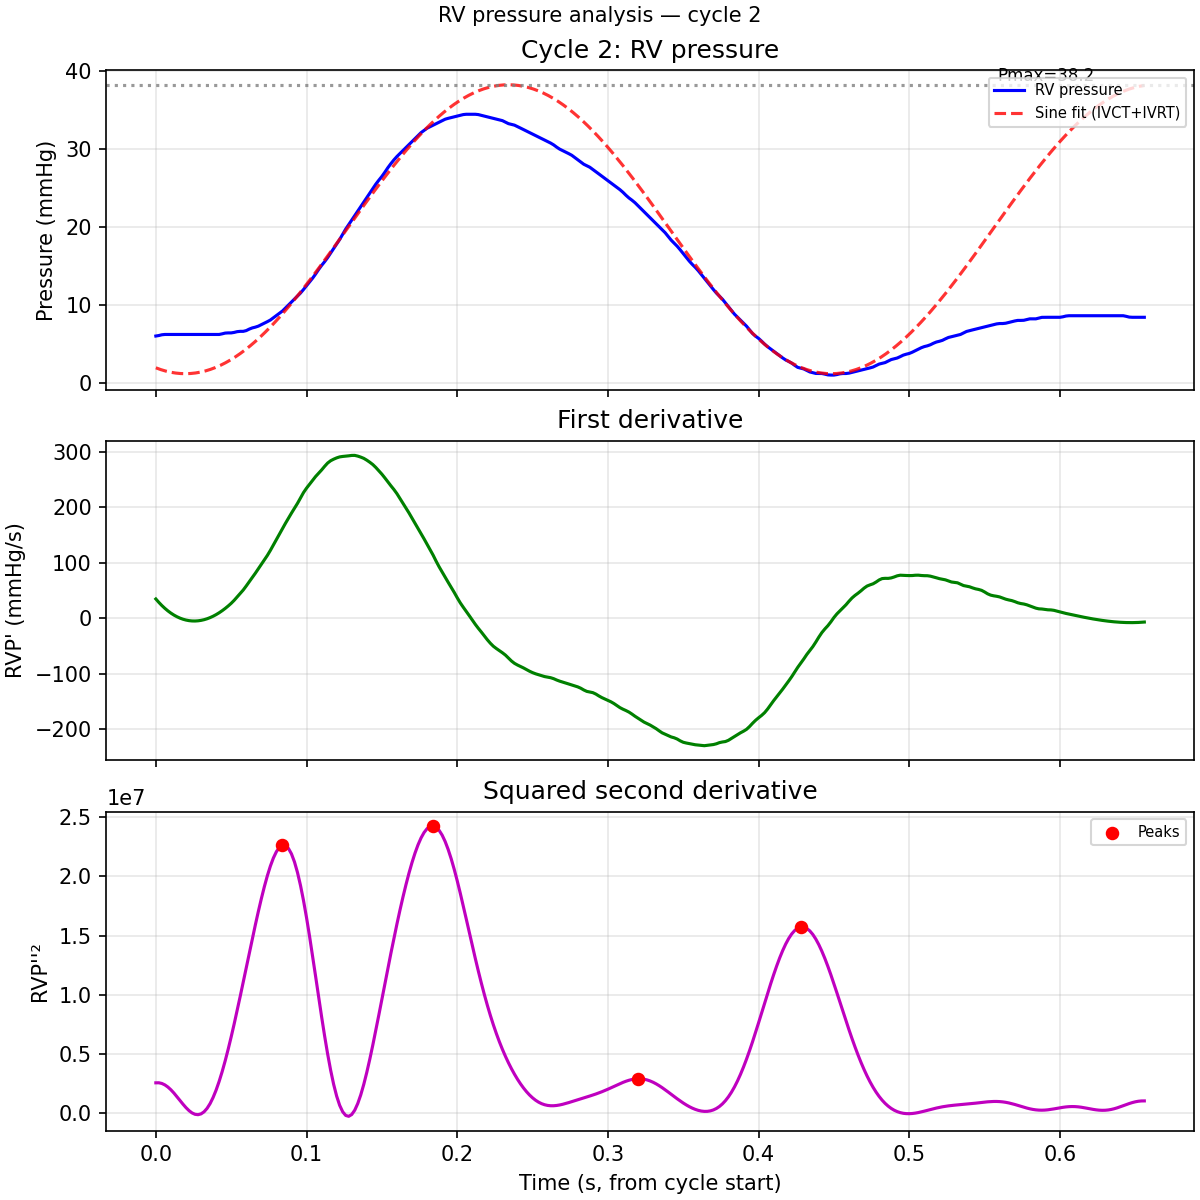
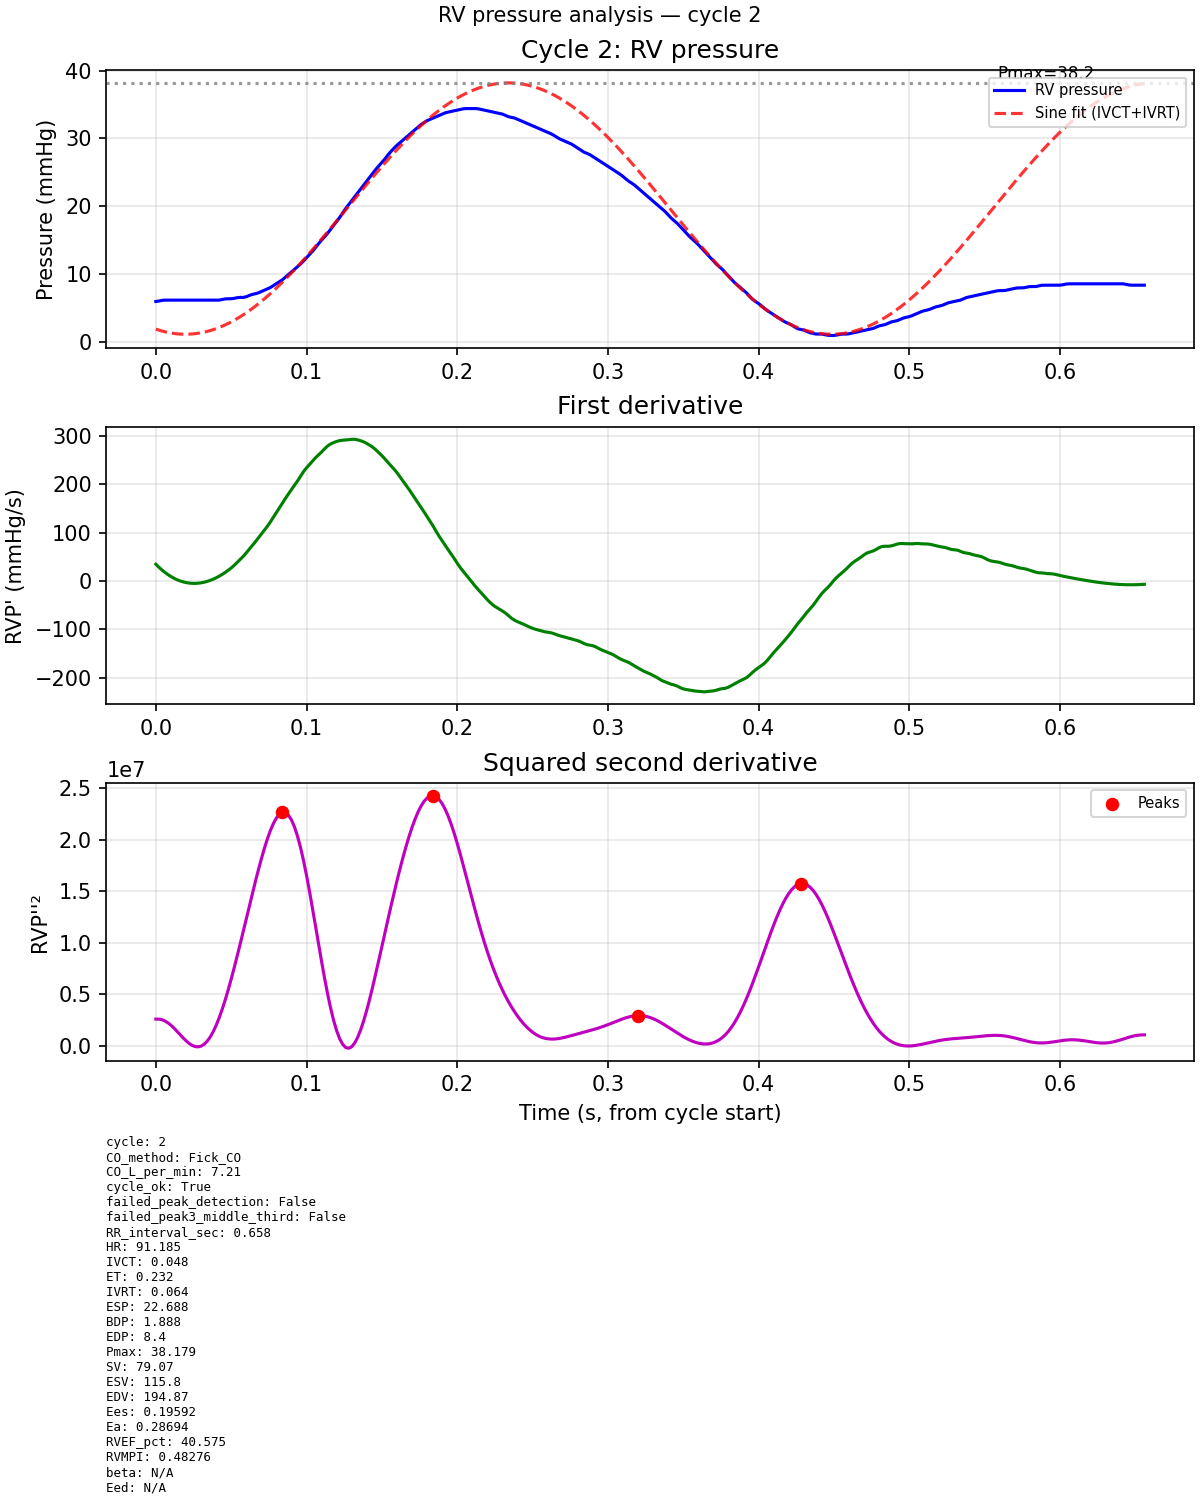
added more constraints

diff --git a/scripts/analyze_rv_pressure.py b/scripts/analyze_rv_pressure.py
@@ -11,7 +11,7 @@ Usage:
         [--deriv-smooth none|savgol|kalman] [--savgol-window N] [--savgol-polyorder P]
         [--kalman-level-noise X] [--kalman-trend-noise X] [--kalman-observation-noise X]
         [--rvp2-sq-spectral] [--rvp2-sq-spectral-fraction F] [--rvp2-sq-spectral-pad N]
-        [--disable-peak3-middle-third]
+        [--disable-peak3-middle-third] [--disable-peak34-negative-rvp1]
         [-v|--verbose]
 """
 
@@ -237,6 +237,13 @@ def _peak3_in_middle_third(peak3_idx: int, n: int) -> bool:
     return lo <= peak3_idx <= hi
 
 
+def _peaks34_rvp1_negative(rvp1: np.ndarray, peak3_idx: int, peak4_idx: int) -> bool:
+    """True if RVP' is strictly negative at the 3rd and 4th RVP''² peaks (time-ordered)."""
+    a = float(rvp1[peak3_idx])
+    b = float(rvp1[peak4_idx])
+    return a < 0.0 and b < 0.0
+
+
 def _find_four_peaks(
     rvp2_sq: np.ndarray, min_dist: int = 5, thres: float = 0.1
 ) -> Optional[np.ndarray]:
@@ -328,6 +335,7 @@ def analyze_one_cycle(
     deriv_smooth: Optional[DerivativeSmoothConfig] = None,
     rvp2_sq_spectral: Optional[Rvp2SqSpectralConfig] = None,
     require_peak3_middle_third: bool = True,
+    require_peak34_rvp1_negative: bool = True,
 ) -> tuple[dict[str, Any], Optional[tuple]]:
     """
     Compute all metrics for one cardiac cycle. Returns (row_dict, plot_data).
@@ -347,6 +355,7 @@ def analyze_one_cycle(
                 "cycle_ok": False,
                 "failed_peak_detection": True,
                 "failed_peak3_middle_third": False,
+                "failed_peak34_rvp1_negative": False,
             },
             None,
         )
@@ -359,6 +368,18 @@ def analyze_one_cycle(
                 "cycle_ok": False,
                 "failed_peak_detection": True,
                 "failed_peak3_middle_third": True,
+                "failed_peak34_rvp1_negative": False,
+            },
+            None,
+        )
+
+    if require_peak34_rvp1_negative and not _peaks34_rvp1_negative(rvp1, peak3_idx, peak4_idx):
+        return (
+            {
+                "cycle_ok": False,
+                "failed_peak_detection": True,
+                "failed_peak3_middle_third": False,
+                "failed_peak34_rvp1_negative": True,
             },
             None,
         )
@@ -415,6 +436,7 @@ def analyze_one_cycle(
         "cycle_ok": True,
         "failed_peak_detection": False,
         "failed_peak3_middle_third": False,
+        "failed_peak34_rvp1_negative": False,
         "RR_interval_sec": rr_sec,
         "HR": hr,
         "IVCT": ivct,
@@ -477,6 +499,7 @@ def _format_metrics_row(row: dict[str, Any]) -> str:
         "cycle_ok",
         "failed_peak_detection",
         "failed_peak3_middle_third",
+        "failed_peak34_rvp1_negative",
         "RR_interval_sec",
         "HR",
         "IVCT",
@@ -574,6 +597,7 @@ def run_analysis(
     deriv_smooth: Optional[DerivativeSmoothConfig] = None,
     rvp2_sq_spectral: Optional[Rvp2SqSpectralConfig] = None,
     require_peak3_middle_third: bool = True,
+    require_peak34_rvp1_negative: bool = True,
 ) -> int:
     """Load HDF5, run full pipeline, write CSV and PNGs. Returns 0 on success."""
     if co_method.upper() == "TDCO":
@@ -668,6 +692,7 @@ def run_analysis(
             deriv_smooth=deriv_smooth,
             rvp2_sq_spectral=rvp2_sq_spectral,
             require_peak3_middle_third=require_peak3_middle_third,
+            require_peak34_rvp1_negative=require_peak34_rvp1_negative,
         )
         row["cycle"] = cycle_num
         row["CO_method"] = co_method
@@ -794,6 +819,11 @@ def main() -> int:
         action="store_true",
         help="Disable requirement that the 3rd RVP''² peak (time-ordered) lies in the middle third of the cycle",
     )
+    parser.add_argument(
+        "--disable-peak34-negative-rvp1",
+        action="store_true",
+        help="Disable requirement that the 3rd and 4th RVP''² peaks occur where RVP' is negative",
+    )
     args = parser.parse_args()
     h5_path = args.h5_path.resolve()
     if not h5_path.is_file():
@@ -822,6 +852,7 @@ def main() -> int:
         deriv_smooth=deriv_cfg,
         rvp2_sq_spectral=rvp2_sq_cfg,
         require_peak3_middle_third=not args.disable_peak3_middle_third,
+        require_peak34_rvp1_negative=not args.disable_peak34_negative_rvp1,
     )
 
 

diff --git a/README.md b/README.md
@@ -182,6 +182,14 @@ Among the four largest peaks on \((\mathrm{RVP}'')^2\) (sorted in **time order**
 |------|---------|
 | `--disable-peak3-middle-third` | Turn off this requirement (restores behavior closer to older versions that did not check peak position). |
 
+### 3rd and 4th RVP''² peaks with negative RVP' (default)
+
+The **3rd** and **4th** peaks in time order (among the four selected on \((\mathrm{RVP}'')^2\)) must occur where **RVP'** is **strictly negative** (`rvp1[peak_idx] < 0`). If not, the beat fails peak detection and `failed_peak34_rvp1_negative` is true in the CSV. This is **on** by default.
+
+| Flag | Meaning |
+|------|---------|
+| `--disable-peak34-negative-rvp1` | Turn off this requirement. |
+
 ### HDF5 inputs the script expects
 
 - Datasets: `--ecg-lead` (default `ECG_lead_II`) and **`RHC_pressure`**.
@@ -189,7 +197,7 @@ Among the four largest peaks on \((\mathrm{RVP}'')^2\) (sorted in **time order**
 
 ### Outputs
 
-- **`csv_files/{stem}.csv`**: one row per cardiac cycle attempt with columns such as cycle index, `cycle_ok`, `failed_peak_detection`, `failed_peak3_middle_third`, hemodynamic intervals, volumes/pressures where fitted, and metadata (`CO_method`, `CO_L_per_min`, etc.).
+- **`csv_files/{stem}.csv`**: one row per cardiac cycle attempt with columns such as cycle index, `cycle_ok`, `failed_peak_detection`, `failed_peak3_middle_third`, `failed_peak34_rvp1_negative`, hemodynamic intervals, volumes/pressures where fitted, and metadata (`CO_method`, `CO_L_per_min`, etc.).
 - **`png_files/{stem}_{n}.png`**: three stacked waveform panels (RV pressure + optional sine fit, RVP′, \((\mathrm{RVP}'')^2\) with detected peaks) plus a **text block under the plots** listing the same per-cycle metrics and CO inputs for cycles with `cycle_ok` True.
 
 ---
@@ -226,5 +234,6 @@ python scripts/analyze_rv_pressure.py hdf5_files/TRM127-RHC1.h5 --co-method TDCO
 | Derivative smoothing warnings | Short segments may skip Savitzky–Golay or Kalman; warnings go to stderr. |
 | Spectral \((\mathrm{RVP}'')^2\) warnings | Very short cycles or invalid fraction/pad; falls back to unsmoothed \((\mathrm{RVP}'')^2\). |
 | Many cycles fail `failed_peak3_middle_third` | Third \((\mathrm{RVP}'')^2\) peak not in middle third of beat; try `--disable-peak3-middle-third` or improve signals / smoothing. |
+| Many cycles fail `failed_peak34_rvp1_negative` | 3rd/4th peaks not on negative RVP'; try `--disable-peak34-negative-rvp1` or adjust derivative smoothing. |
 
 For full behavior (filters, peak rules, and metric definitions), see the docstrings and constants in `scripts/analyze_rv_pressure.py`.
